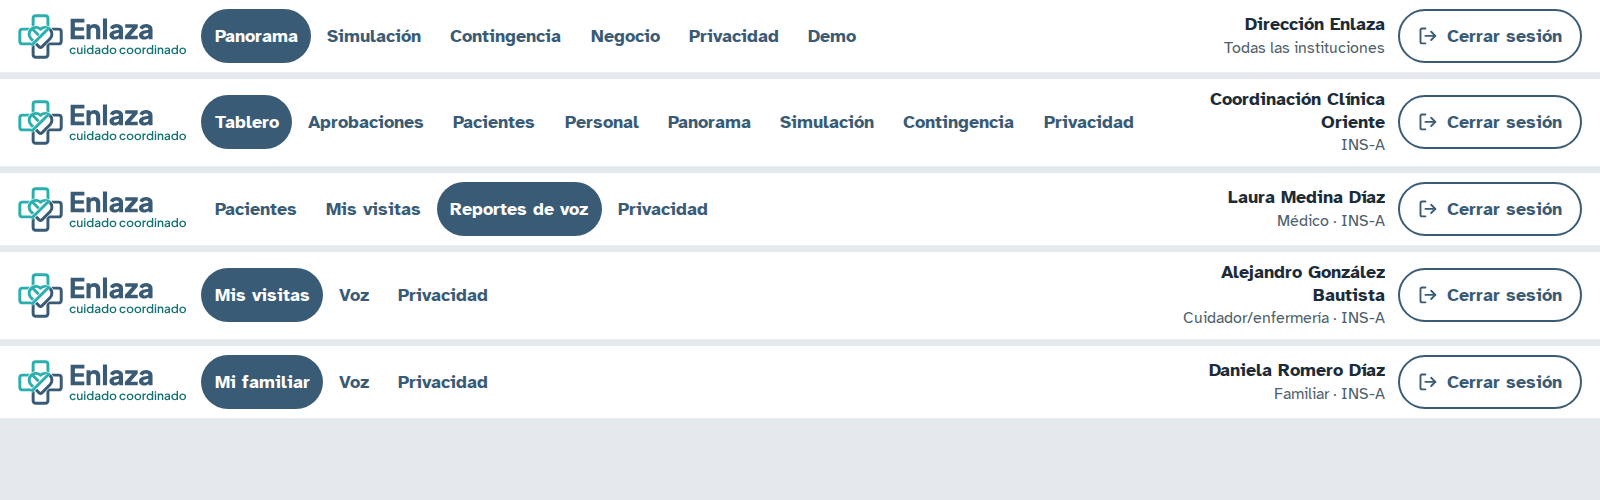
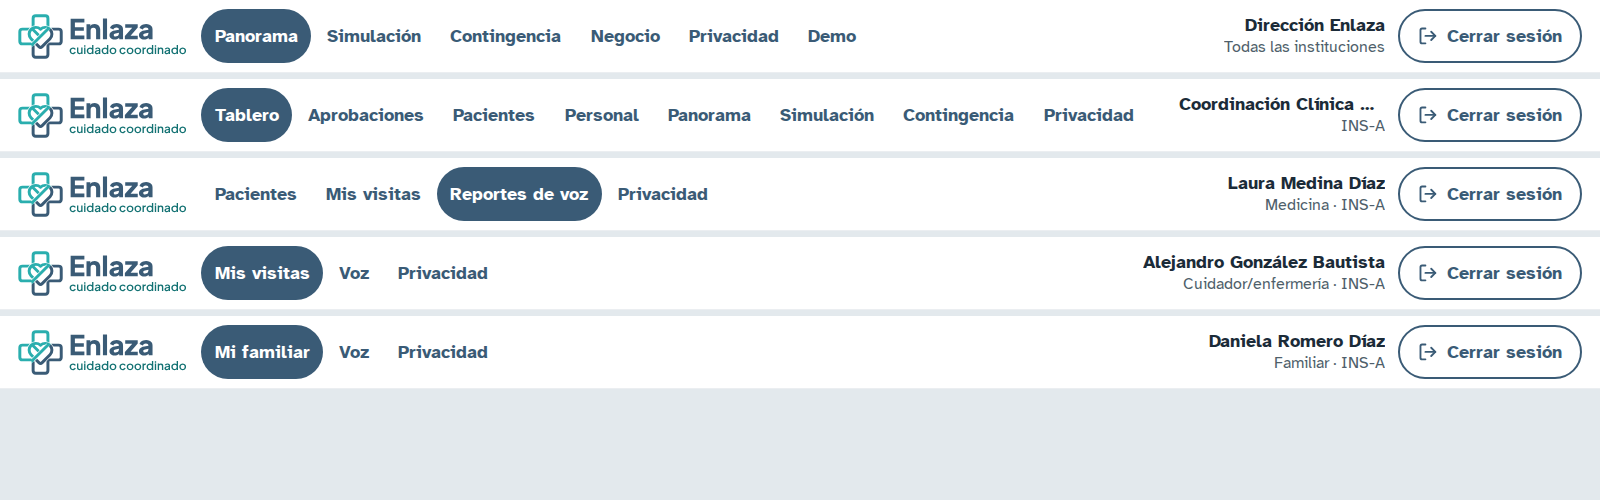
Header: the user's name on one line (ellipsis + full name on hover), the menu never shrinks; neutral role label "Medicina"

Changed region(s): [[0.0, 0.15, 1.0, 0.84], [0.75, 0.03, 0.875, 0.12]]

diff --git a/frontend/src/components/AppShell.tsx b/frontend/src/components/AppShell.tsx
@@ -36,7 +36,7 @@ export function AppShell({ children, bare = false }: { children: ReactNode; bare
         <div className="mx-auto flex max-w-[1880px] items-center gap-3 px-4 py-2">
           <img src="/logo.svg" alt={`${es.app.name} · ${es.app.tagline}`} className="h-10 shrink-0 xl:h-9 2xl:h-10" />
 
-          <nav aria-label={es.shell.menu} className="hidden min-w-0 flex-1 xl:block">
+          <nav aria-label={es.shell.menu} className="hidden shrink-0 xl:block">
             <ul className="flex items-center gap-0.5">
               {user.screens.map((path) => (
                 <li key={path}><NavLink to={path} className={link}>{es.nav.short[path] ?? es.screens[path]}</NavLink></li>
@@ -50,12 +50,12 @@ export function AppShell({ children, bare = false }: { children: ReactNode; bare
           </button>
 
           {/* Desktop / projector: logout always visible; the user's name only when there is room (>= 1536 px) */}
-          <div className="hidden shrink-0 items-center gap-3 xl:ml-auto xl:flex">
-            {/* a long name ("Coordinación Red Vecinal Iztacalco") wraps in at most two lines inside a fixed width, the
-                full name on hover, so the header never overflows and "Cerrar sesión" is never cut */}
-            <p className="hidden w-52 text-right leading-tight 2xl:block" title={user.display_name}>
-              <span className="line-clamp-2 font-bold">{user.display_name}</span>
-              <span className="text-sm text-muted">{roleLine}</span>
+          <div className="hidden min-w-0 items-center gap-3 xl:ml-auto xl:flex">   {/* the name shrinks (ellipsis), never the menu */}
+            {/* the name stays on ONE line inside a maximum width: a longer one ends in "…" and shows whole on hover
+                (title), so the header never overflows and "Cerrar sesión" is never cut */}
+            <p className="hidden min-w-0 max-w-64 pl-4 text-right leading-tight 2xl:block" title={user.display_name}>
+              <span className="block truncate font-bold">{user.display_name}</span>
+              <span className="block truncate text-sm text-muted">{roleLine}</span>
             </p>
             <LogoutButton onLogout={onLogout} />
           </div>
@@ -63,8 +63,8 @@ export function AppShell({ children, bare = false }: { children: ReactNode; bare
 
         {open && (
           <nav id="main-menu" aria-label={es.shell.menu} className="border-t border-navy/15 px-4 pb-3 xl:hidden">
-            <p className="py-2"><span className="font-bold">{user.display_name}</span>
-              <span className="text-muted"> · {roleLine}</span></p>
+            <p className="py-2" title={user.display_name}><span className="block truncate font-bold">{user.display_name}</span>
+              <span className="block truncate text-muted">{roleLine}</span></p>
             <ul className="grid gap-1 sm:grid-cols-2">
               {user.screens.map((path) => (
                 <li key={path}><NavLink to={path} className={({ isActive }) => `${link({ isActive })} w-full`}>

diff --git a/frontend/src/i18n/es.ts b/frontend/src/i18n/es.ts
@@ -104,7 +104,7 @@ export const es = {
   roles: {
     owner: "Dirección",
     coordinator: "Coordinación",
-    physician: "Médico",
+    physician: "Medicina",   // neutral form, like "Cuidador/enfermería"
     caregiver: "Cuidador/enfermería",
     family: "Familiar",
   } as Record<string, string>,
@@ -113,7 +113,7 @@ export const es = {
   roleInHeader: {
     owner: "Todas las instituciones",   // its account is "Dirección Enlaza": the role would repeat the name
     coordinator: "",
-    physician: "Médico",
+    physician: "Medicina",   // neutral form, like "Cuidador/enfermería"
     caregiver: "Cuidador/enfermería",
     family: "Familiar",
   } as Record<string, string>,
